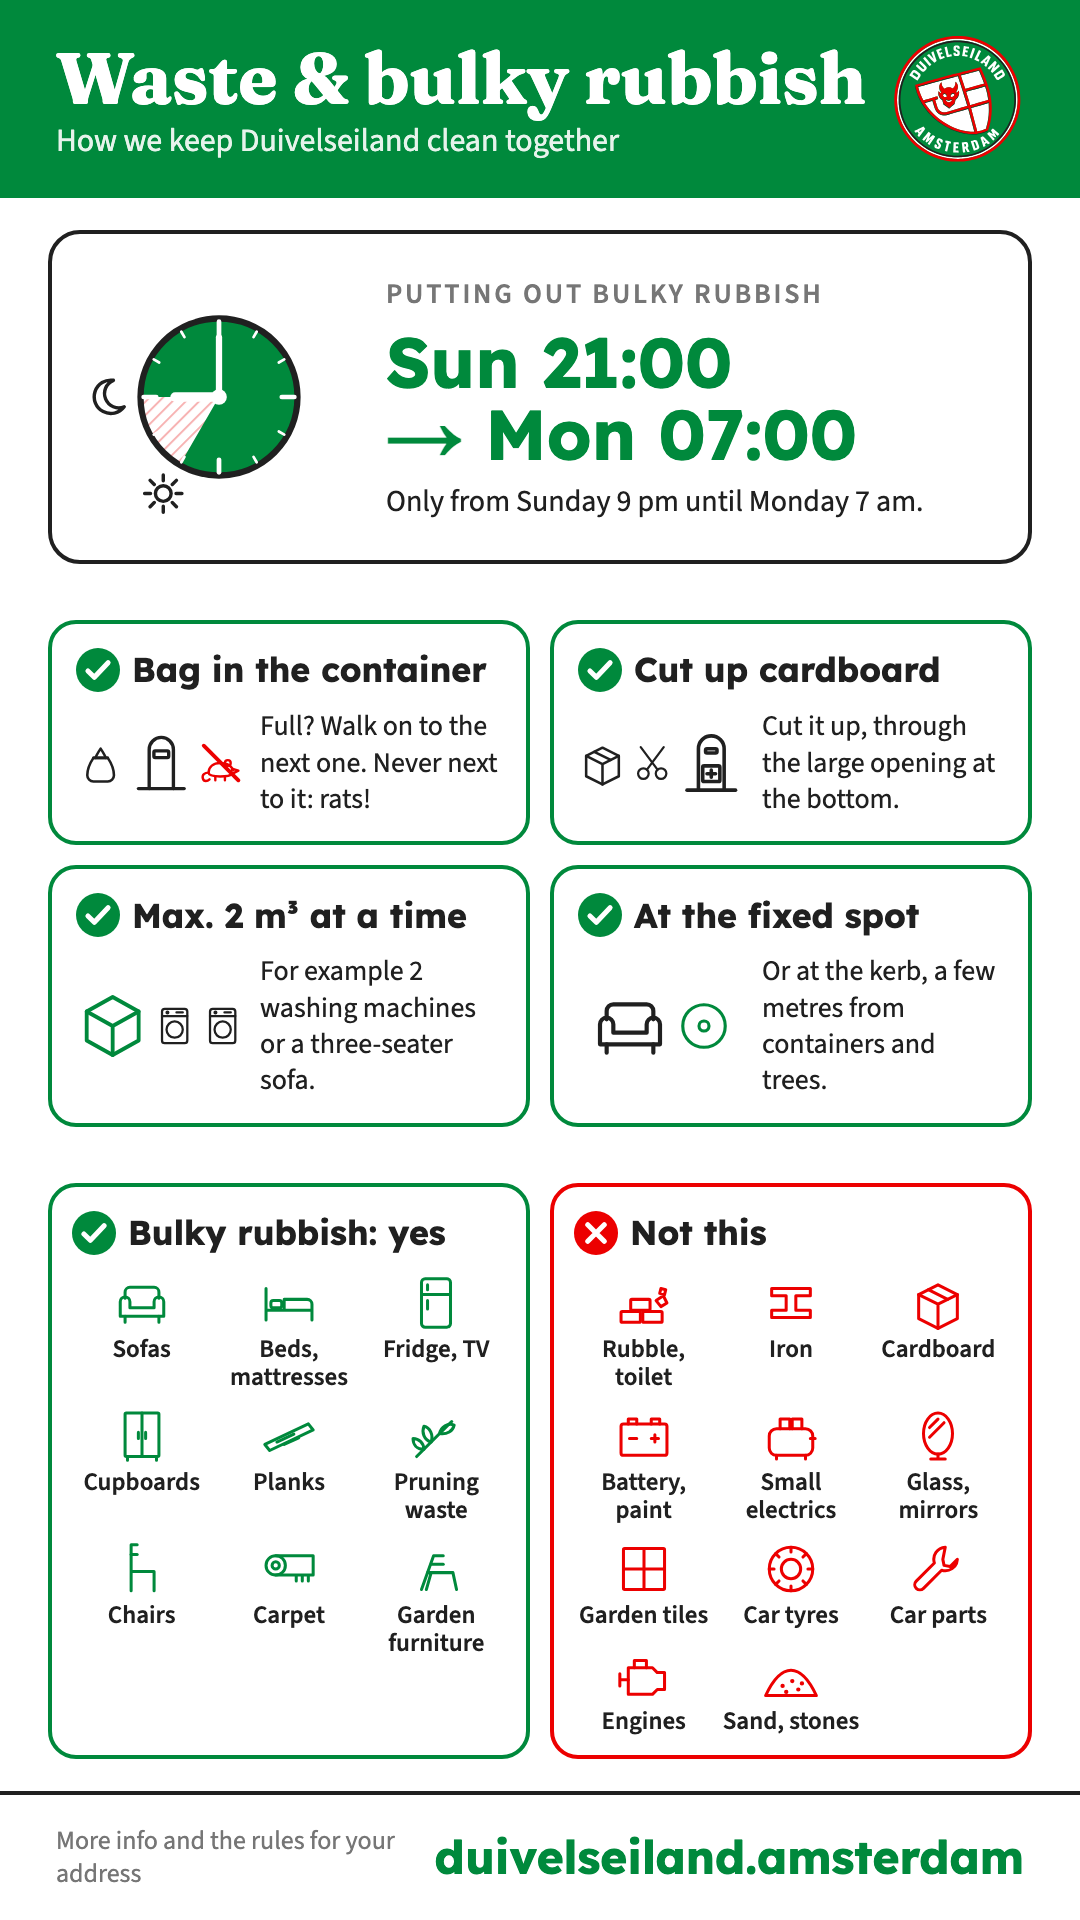
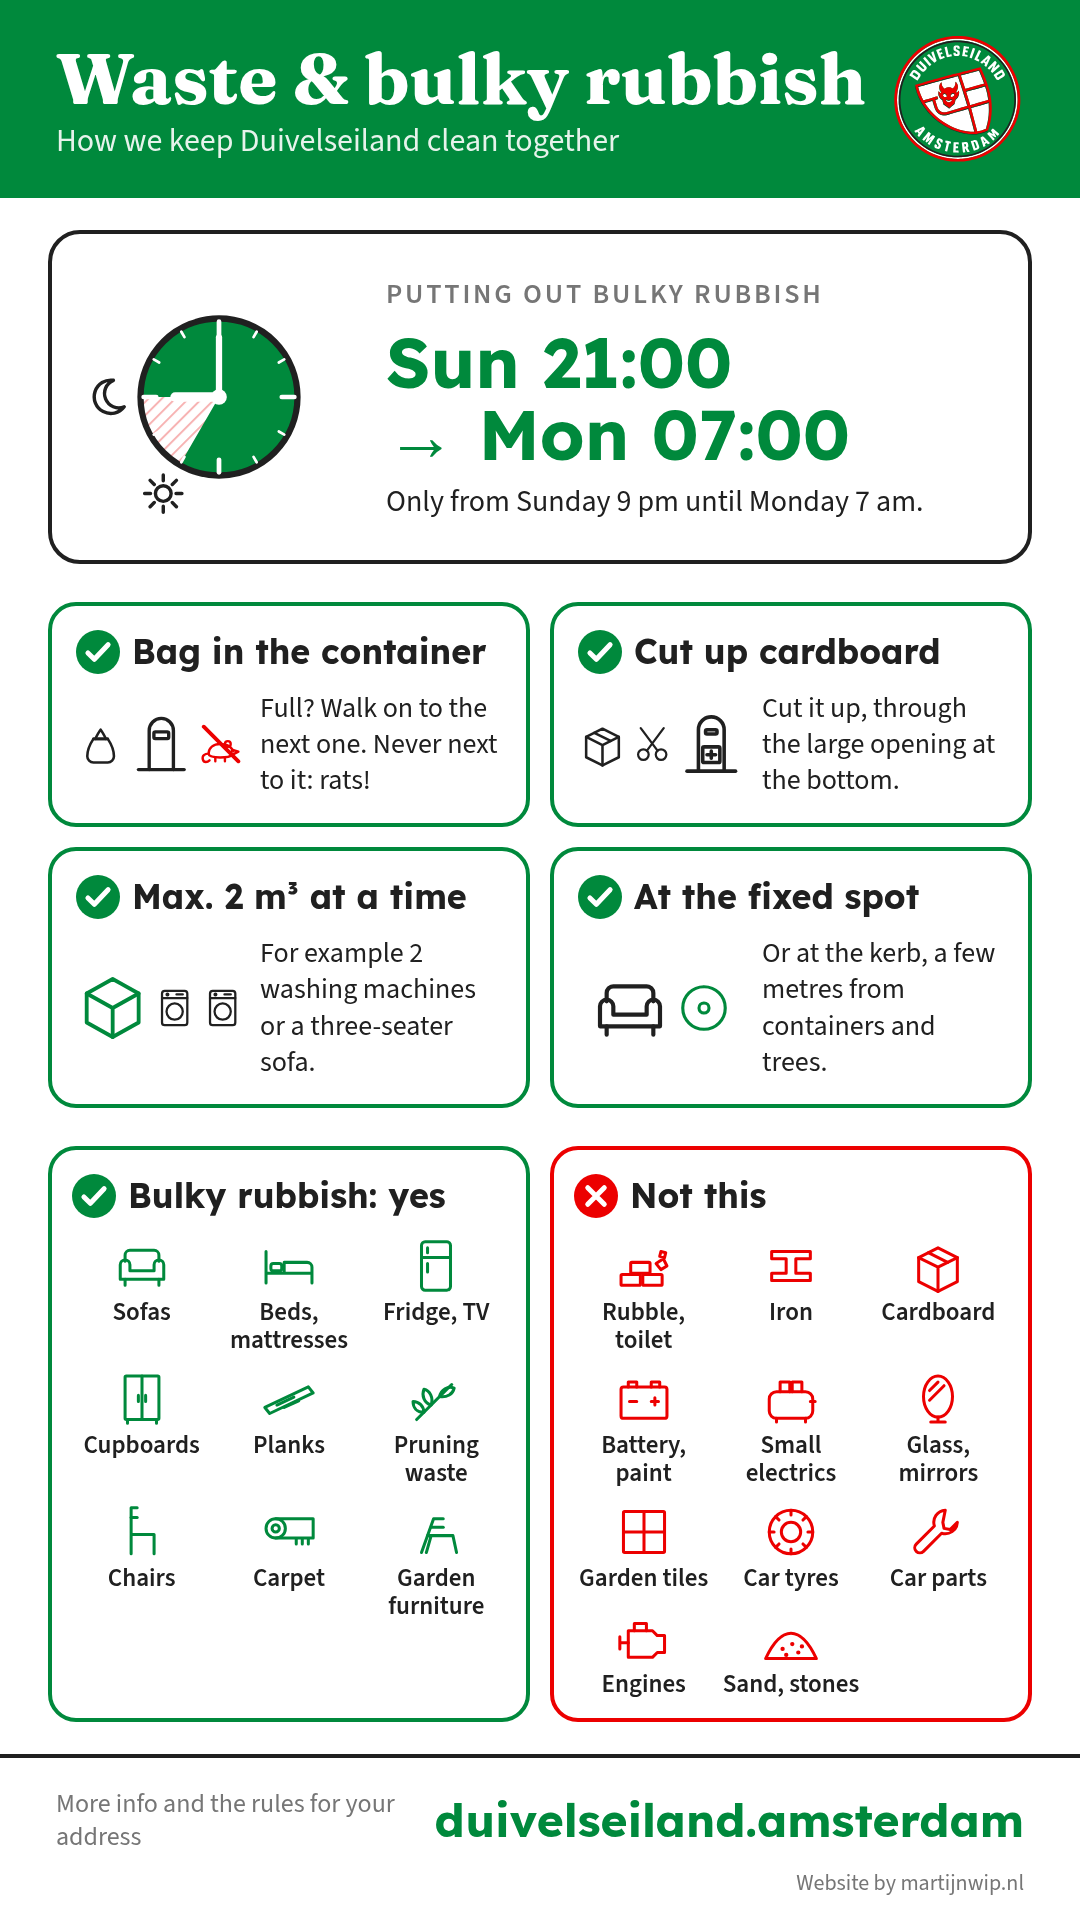
Afvalkaart: 'Website by martijnwip.nl' onder instructiekaart en deelafbeeldingen

diff --git a/src/components/afval/instructie/DeelKaart.tsx b/src/components/afval/instructie/DeelKaart.tsx
@@ -111,9 +111,12 @@ export async function DeelKaart({ locale }: { locale: string }) {
       </div>
 
       {/* Voetbalk met website in de hoek */}
-      <footer className="flex items-center justify-between gap-6 border-t-[4px] border-text bg-card px-14 py-7">
-        <span className="max-w-[440px] text-[26px] leading-[1.25] text-muted">{s('footer')}</span>
-        <span className="font-heading text-[46px] font-bold text-primary">{s('site')}</span>
+      <footer className="flex flex-col gap-3 border-t-[4px] border-text bg-card px-14 pt-7 pb-5">
+        <div className="flex items-center justify-between gap-6">
+          <span className="max-w-[440px] text-[26px] leading-[1.25] text-muted">{s('footer')}</span>
+          <span className="font-heading text-[46px] font-bold text-primary">{s('site')}</span>
+        </div>
+        <span className="text-right text-[22px] text-muted">{t('credit')}</span>
       </footer>
     </div>
   );

diff --git a/src/components/afval/instructie/InstructieKaart.tsx b/src/components/afval/instructie/InstructieKaart.tsx
@@ -246,6 +246,11 @@ export async function InstructieKaart({ locale }: { locale: string }) {
             {base ? `${base}${afvalHref}` : afvalHref}
           </Link>
         </footer>
+        <p className="m-0 bg-background px-5 pb-2 text-right text-[12px] text-muted xl:px-6 print:text-[10px]">
+          <a href="https://martijnwip.nl" className="text-muted no-underline hover:underline">
+            {t('credit')}
+          </a>
+        </p>
       </article>
     </main>
   );
